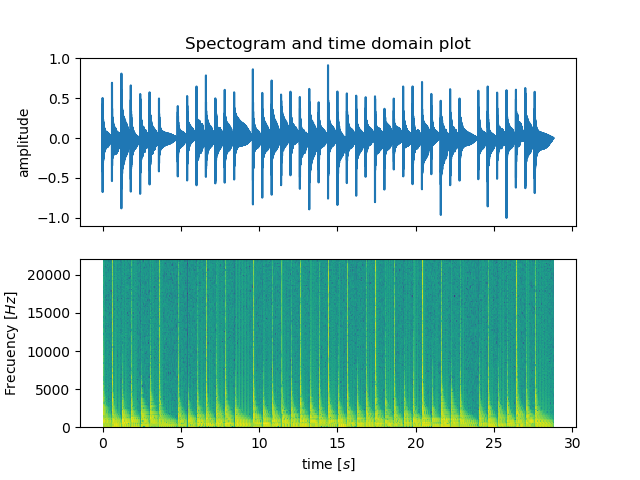
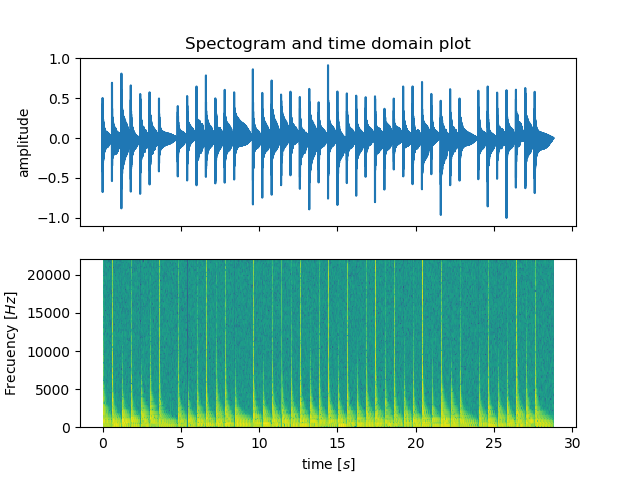
espectrograma agregado al backend, falta implementacion en el front

Changed region(s): [[0.375, 0.8125, 0.4062, 0.875], [0.3438, 0.75, 0.375, 0.8125], [0.625, 0.8125, 0.6562, 0.8438]]

diff --git a/TP2/GUI-Synth/Video_wxWidgets/Video_wxWidgets/Espectrograma/main.py b/TP2/GUI-Synth/Video_wxWidgets/Video_wxWidgets/Espectrograma/main.py
@@ -1,0 +1,74 @@
+from scipy.io import wavfile
+import matplotlib.pyplot as plt
+import numpy as np
+from scipy import signal
+import argparse
+
+def generatePlot(path,Nfft,overlap,window,kaiserparam,gaussianparam,expparam):
+    '''
+    This function computes a stacked pair of plots contaning both time domain
+    and spectogram.
+    An image file will be stored in that very same directory. 
+        Input path: \C\folder\mywav.wav
+        Ouput path: \C\folder\mywav.png
+
+    Watch out for duplicates, we will overwrite pre-existing images with the same name.
+    '''
+
+    #Unpack .wav data
+    try:
+        sample_rate, samples = wavfile.read(path)
+    except:
+        print("The given file could not be opened")
+    #We only need mono, getting rid of channel 2
+    channel1_samples = samples[:,1] 
+
+    #Setting up our subplot
+    fig, axs = plt.subplots(2, 1, sharex=True)
+    axs[0].set_title("Spectogram and time domain plot")
+
+    #Computing the spectogram in the first will allow us to use its time axes
+    if(window == "boxcar" or window == "triang " or window == "blackman" or window == "hamming" or window == "hanning " or window == "bartlett " or window == "flattop" or window == "parzen"or window == "bohman"or window == "blackmanharris"or window == "nuttall"or window == "barthann"):
+        spec = axs[1].specgram(channel1_samples, NFFT=Nfft, Fs=sample_rate,noverlap=overlap,window= signal.get_window(window,Nfft))
+    elif(window == "kaiser"):
+        spec = axs[1].specgram(channel1_samples,NFFT=Nfft,Fs=sample_rate,noverlap=overlap,window= signal.windows.kaiser(Nfft,kaiserparam) )
+    elif(window == "gaussian"):
+        spec = axs[1].specgram(channel1_samples,NFFT=Nfft,Fs=sample_rate,noverlap=overlap,window= signal.windows.gaussian(Nfft,gaussianparam) )
+    elif(window == "exponential"):
+        spec = axs[1].specgram(channel1_samples,NFFT=Nfft,Fs=sample_rate,noverlap=overlap,window= signal.windows.exponential(Nfft,expparam) )
+    elif(window == "rectangular"):
+        spec = axs[1].specgram(channel1_samples,NFFT=Nfft,Fs=sample_rate,noverlap=overlap,window= signal.windows.tukey(Nfft,0) )
+
+    axs[1].set_xlabel("time [$s$]")
+    axs[1].set_ylabel("Frecuency [$Hz$]")
+
+    #Matching Spectogram and time domain axes
+    x_axis = np.linspace(spec[2][0],spec[2][-1],len(channel1_samples))
+    axs[0].plot(x_axis,channel1_samples/np.max(np.abs(channel1_samples)))
+    axs[0].set_ylabel("amplitude")
+
+    #Save the image
+    plt.savefig(path[:-3]+"png", format="png")
+    plt.show()
+
+if __name__ == '__main__':
+    #Create parser
+    parser = argparse.ArgumentParser()
+    parser.add_argument('path', type=str)
+    parser.add_argument('nfft', type=str)
+    parser.add_argument('overlap', type=str)
+    parser.add_argument('window', type=str)
+    parser.add_argument('kaiserparam', type=str)
+    parser.add_argument('gaussianparam', type=str)
+    parser.add_argument('expparam', type=str)
+    args = parser.parse_args()
+    path = args.path #<-- Get path
+    nfft=args.nfft
+    overlap=args.overlap
+    window=args.window
+    kaiserparam=args.kaiserparam
+    gaussianparam=args.gaussianparam
+    expparam=args.expparam
+    generatePlot(path,int(nfft),int(overlap),window,kaiserparam,gaussianparam,expparam)
+#    generatePlot(path)
+ #   generatePlot("twinkle.wav")

diff --git a/TP2/GUI-Synth/Video_wxWidgets/Video_wxWidgets/Espectrograma/EspectroGenerator.cpp b/TP2/GUI-Synth/Video_wxWidgets/Video_wxWidgets/Espectrograma/EspectroGenerator.cpp
@@ -1,0 +1,14 @@
+#include "EspectroGenerator.h"
+using namespace std;
+#include <string>
+//Input: .wav file path
+//Returns: nothing
+// An image with the name mywav.png. The name comes from the given file! e.g:\Path\mywav.wav
+void EspectroGenerator::generateSpectrum(string path, int nfft,int overlap, string window,double kaiserparam,double gaussianparam,double expparam)
+{
+	string command = "python main.py ";
+	command += path +" "+ to_string(nfft) + " " + to_string(overlap) + " " + window + " " + to_string(kaiserparam) + " " + to_string(gaussianparam) +" "+ to_string(expparam);
+	const char *commandPtr = command.c_str();
+	system(commandPtr); //Invoke python to compute plots
+}
+

diff --git a/TP2/EjemploEspectograma/EspectroPython/main.cpp b/TP2/EjemploEspectograma/EspectroPython/main.cpp
@@ -3,5 +3,5 @@
 int main(void) {
 	EspectroGenerator es;
 	//es.generateSpectrum("Trombone.wav"); //Como esta en la misma carpeta le pasamos el nombre del archivo
-	es.generateSpectrum("twinkle.wav",256,128,"hamming",0,0,0);
+	es.generateSpectrum("twinkle.wav",256,128,"blackman",0,0,0);
 }
